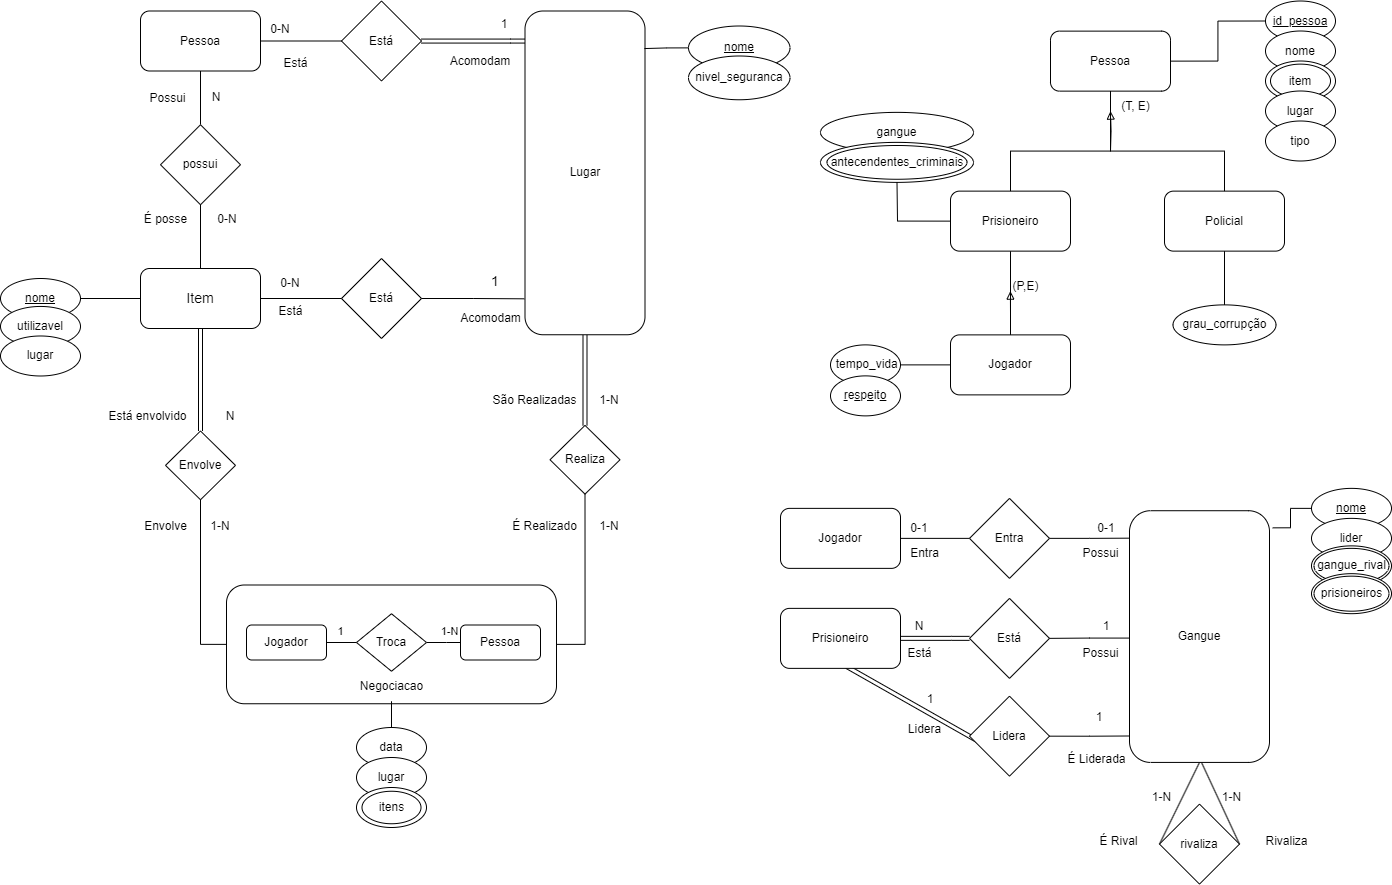
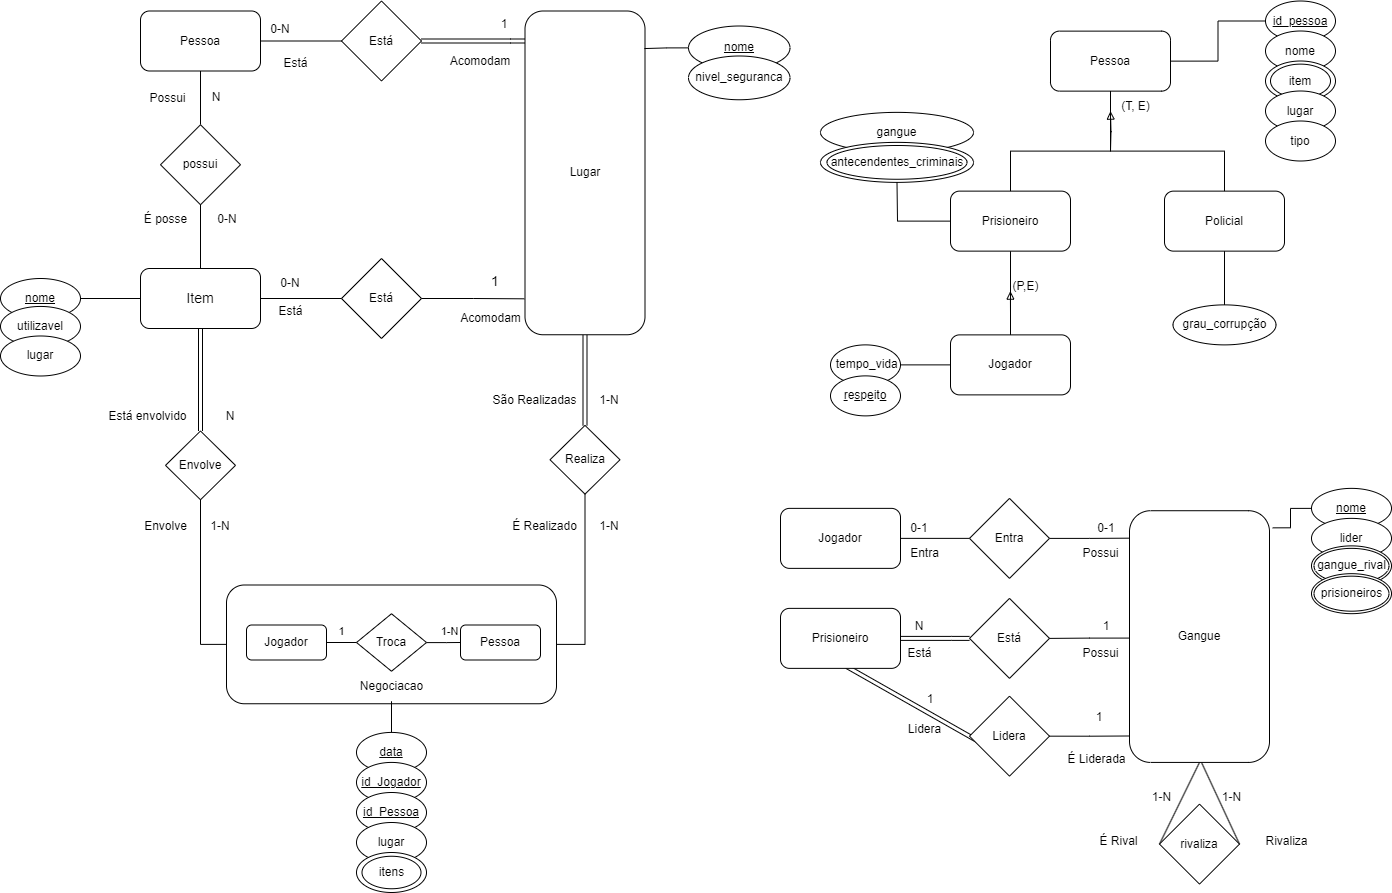
Ajusta atributo negociacao

diff --git a/docs/Modulo-1/MER.md b/docs/Modulo-1/MER.md
@@ -28,7 +28,7 @@
 - Item: <ins>nome</ins>, utilizavel, lugar
 - Lugar: <ins>nome</ins>, nivel_seguranca
 - Gangue: <ins>nome</ins>, lider, gangue_rival(multivalorada), prisioneiros(multivalorado)
-- Negociaçao: data, lugar, itens (multivalorado)
+- Negociaçao: <ins>id_jogador</ins>, <ins>id_Pessoa</ins>, <ins>data</ins>, lugar, itens (multivalorado)
 
 
 ## Relacionamento
